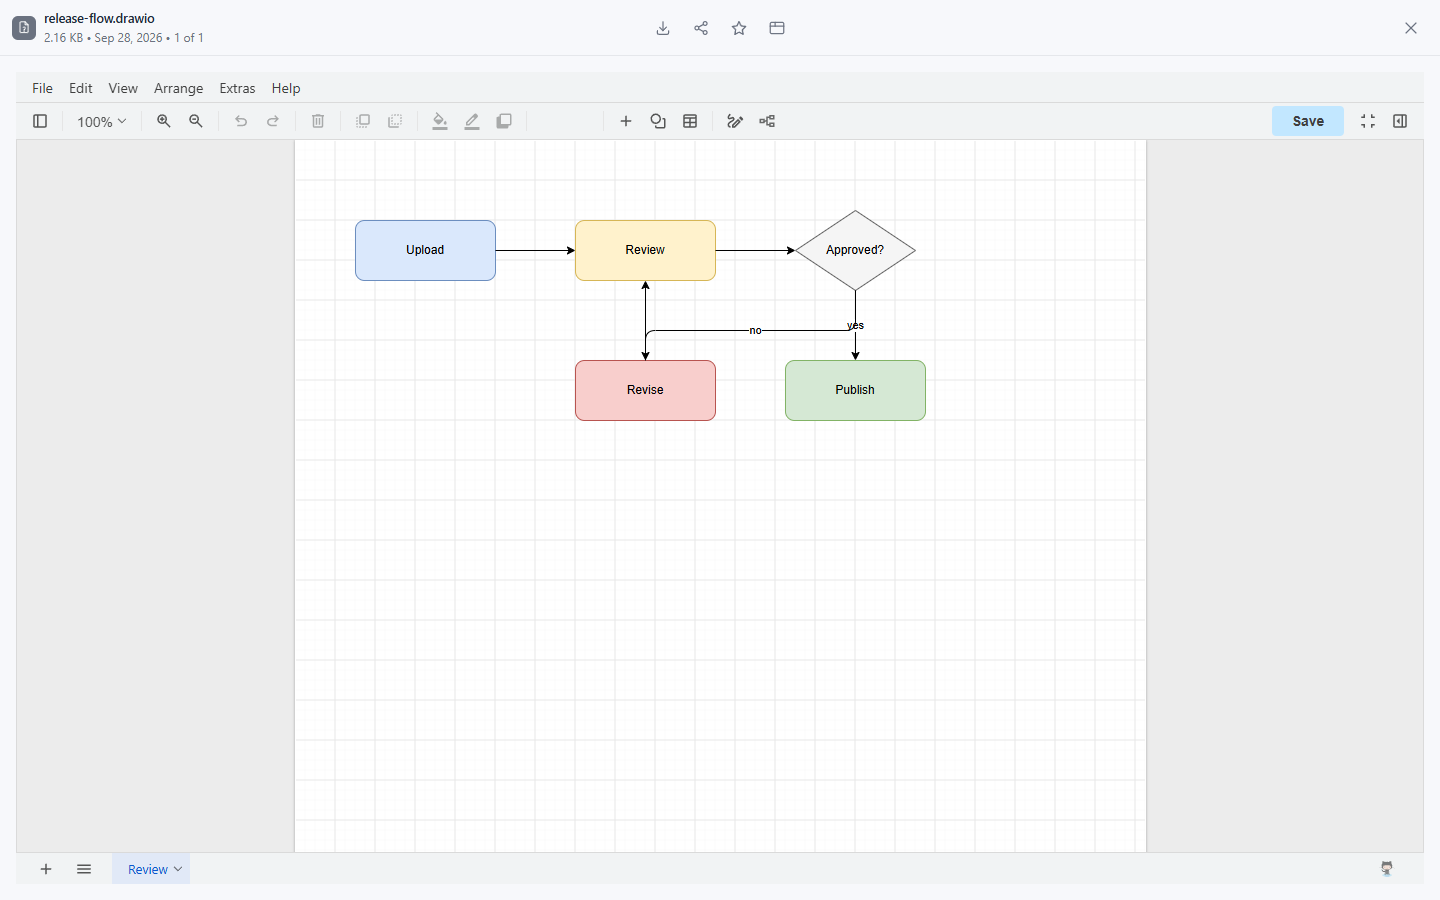
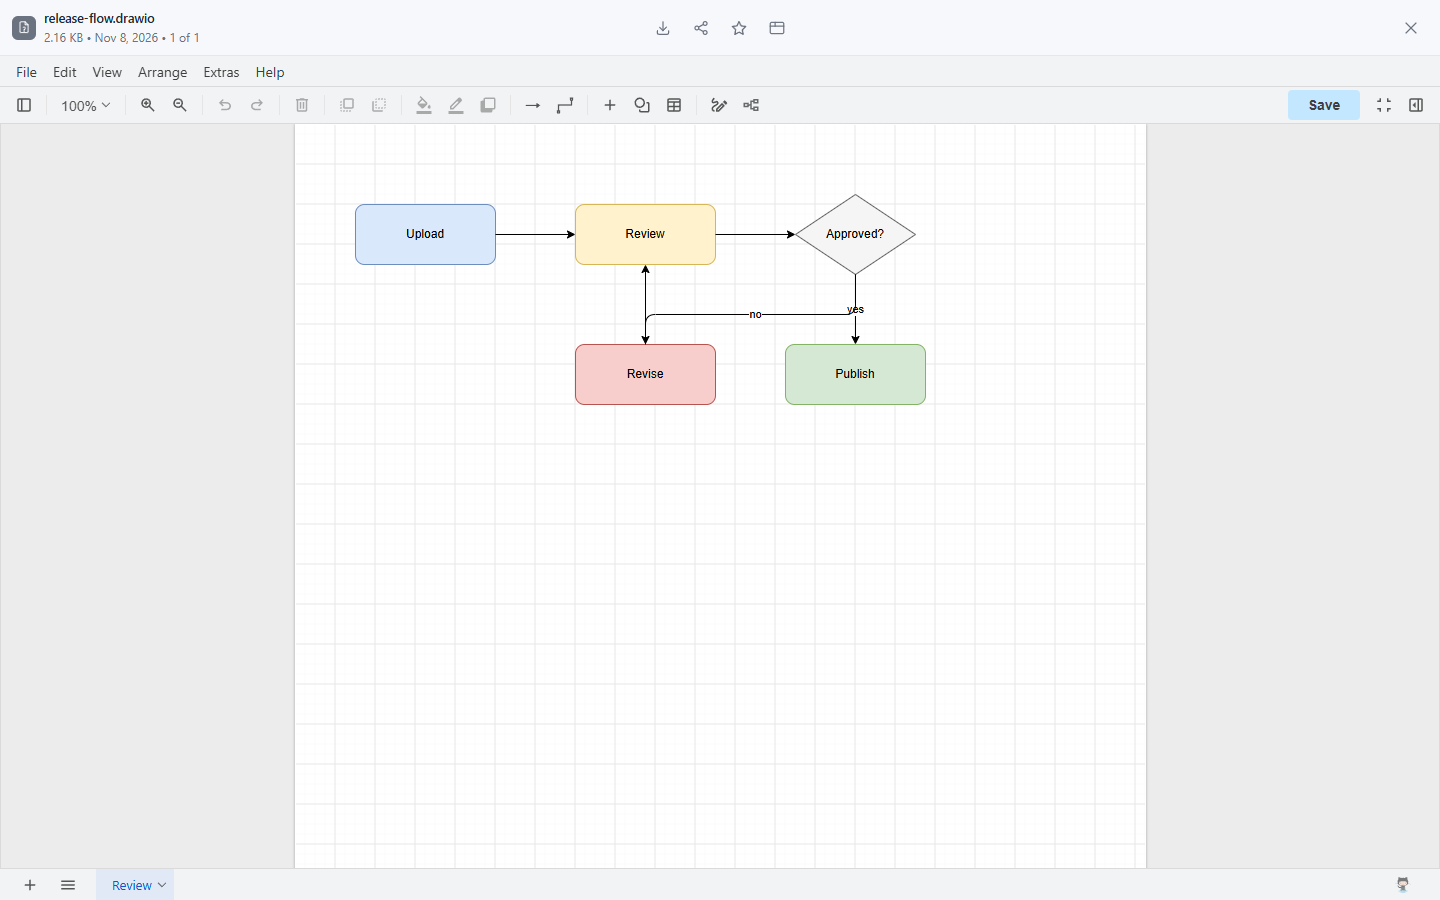
filex-drawio 32.6.10: draw.io 32.6.10
- draw.io 31.5.3 -> 32.6.10 (draw.war sha256
  a57b06b3b6a876a351dacfe65d027d9509319cd030e9bacf6ae04a034d66a38f). The
  adapter is unchanged; draw.io 32 ships fewer files: ui.zip 43.2 MiB,
  3067 files (was 47.2 MiB, 3384).
- The filex interface SDK is @brftech/filex-app-ui 0.59.0 as published
  (was 0.48.0's build). Additive only: filex 0.48.0 or later, as before.
- main's manifest is the released one again: main had carried a re-sealed
  bundle under v31.5.3's address, so an install from main failed with
  sha256_mismatch.
- Workflows pin every action by commit SHA: checkout v7.0.1,
  setup-python v7.1.0, cache v6.1.0, action-gh-release v3.0.4.
- measure/ uses playwright-core 1.65; README: version, package size, last
  measurement, and screenshots retaken on filex 0.59.0.

ui.zip sha256 82477313e3e4a9ff8568f50a05096d9f5029eb5e5154a2a14e2fe493348c824e,
the same on Windows and Linux. measure/drawio-measure.mjs green in Chrome,
Firefox and WebKit on filex 0.59.0 and 0.48.1; unit tests 4/4.

diff --git a/vendor/filex-app-ui.iife.js b/vendor/filex-app-ui.iife.js
@@ -1,2 +1,2 @@
-var FilexAppUI=function(o){"use strict";const S="filex:hello",O="filex:port",L=["session.get","file.read","file.save","file.saveAs","ui.dirty","ui.title","ui.toast","ui.confirm","ui.close","clipboard.write","ui.download","engine.call","job.submit","state.get","state.set"],h={maxTextBytes:33554432,maxStateBytes:8192,maxLineChars:300,connectTimeoutMs:1e4,maxDownloadBytes:268435456};function x(n){return!!n&&typeof n=="object"&&n.type===S&&typeof n.v=="number"}function R(n){return!!n&&typeof n=="object"&&n.type===O}function B(n){return!!n&&typeof n=="object"&&typeof n.id=="number"&&typeof n.method=="string"}function I(n){return L.includes(n)}class p extends Error{constructor(u){super(u.message||u.code),this.name="FilexError",this.code=u.code}}let E=null;function T(n={}){return E||(E=k(n)),E}function k(n){return new Promise((u,y)=>{if(typeof window>"u"||window.parent===window){y(new p({code:"unavailable",message:"not running inside filex"}));return}const a=window.parent,l=D(),c=setTimeout(()=>{window.removeEventListener("message",w),y(new p({code:"unavailable",message:"filex did not answer"}))},n.timeoutMs??h.connectTimeoutMs);function w(m){if(m.source!==a||!R(m.data)||!m.ports[0]||l&&m.origin!==l)return;window.removeEventListener("message",w),clearTimeout(c);const i=m.ports[0],f=H(i,n);f.request("session.get").then(g=>{f.session=g,n.applyTheme!==!1&&(M(g.theme,g.locale,g.dir),f.on("theme",d=>M(d)),f.on("locale",d=>{const e=d;M(void 0,e.locale,e.dir)})),u(f)}).catch(y)}window.addEventListener("message",w),a.postMessage({type:S,v:1},"*")})}function D(){try{const n=window.location.ancestorOrigins;if(n&&n.length>0&&n[0]!=="null")return n[0]}catch{}return""}function H(n,u){let y=0;const a=new Map,l=new Map;let c=null;n.onmessage=e=>{const t=e.data;if(!(!t||typeof t!="object")){if(typeof t.id=="number"){const s=a.get(t.id);if(!s)return;a.delete(t.id),t.error?s.reject(new p(t.error)):s.resolve(t.result);return}if(typeof t.hid=="number"){w(t);return}if(typeof t.event=="string")for(const s of l.get(t.event)??[])try{s(t.data)}catch(r){console.error("[filex-app-ui] listener failed",r)}}};async function w(e){if(e.request==="save"){if(!c){n.postMessage({hid:e.hid,error:{code:"unavailable",message:"this app has no save handler"}});return}try{const t=await m();n.postMessage({hid:e.hid,result:t??{saved:!0}})}catch(t){const s=t instanceof p?{code:t.code,message:t.message}:{code:"failed",message:String(t?.message??t)};n.postMessage({hid:e.hid,error:s})}return}n.postMessage({hid:e.hid,error:{code:"unknown_method"}})}async function m(){if(!c)return null;const e=await c();return e==null?null:d.save(e)}function i(e,t,s=[]){const r=++y;return new Promise((b,v)=>{a.set(r,{resolve:b,reject:v});try{n.postMessage({id:r,method:e,params:t},s)}catch(P){a.delete(r),v(P)}})}function f(e,t){i(e,t).catch(s=>console.warn("[filex-app-ui]",e,s))}async function g(e){if(typeof e=="string")return{data:e,transfer:[]};if(e instanceof ArrayBuffer)return{data:e,transfer:[e]};if(ArrayBuffer.isView(e)){const t=e.buffer.slice(e.byteOffset,e.byteOffset+e.byteLength);return{data:t,transfer:[t]}}if(typeof Blob<"u"&&e instanceof Blob){const t=await e.arrayBuffer();return{data:t,transfer:[t]}}if(typeof ReadableStream<"u"&&e instanceof ReadableStream)return{data:e,transfer:[e]};throw new p({code:"invalid",message:"save takes a string, a Blob, bytes or a ReadableStream"})}const d={session:void 0,async open(e=0){const t=d.session?.files?.[e];if(!t)throw new p({code:"not_found",message:`no file at ${e}`});const s=(r,b)=>i("file.read",{index:e,as:r}).then(v=>v[b]);return{...t,text:()=>s("text","text"),bytes:()=>s("bytes","bytes"),stream:()=>s("stream","stream"),save:(r,b)=>d.save(r,{index:e,mime:b})}},async save(e,t={}){const s=await g(e);return i("file.save",{index:t.index??0,data:s.data,mime:t.mime},s.transfer)},async saveAs(e,t,s){const r=await g(t);return i("file.saveAs",{name:e,data:r.data,mime:s},r.transfer)},async download(e,t,s){const r=await g(t);return i("ui.download",{name:e,data:r.data,mime:s},r.transfer)},dirty(e){f("ui.dirty",{dirty:!!e})},title(e){f("ui.title",{text:String(e).slice(0,h.maxLineChars)})},toast(e,t){f("ui.toast",{text:String(e).slice(0,h.maxLineChars),tone:t})},confirm(e){return i("ui.confirm",typeof e=="string"?{text:e}:e)},close(){f("ui.close")},copy(e){return i("clipboard.write",{text:String(e)})},call(e,t){return i("engine.call",{method:e,params:t})},submit(e,t){return i("job.submit",{action:e,params:t})},state:{get(e){return i("state.get",{key:e})},set(e,t){return i("state.set",{key:e,value:t})}},on(e,t){let s=l.get(e);return s||l.set(e,s=new Set),s.add(t),()=>s.delete(t)},onSave(e){return c=e,()=>{c===e&&(c=null)}},request:i};return u.saveShortcut!==!1&&typeof document<"u"&&document.addEventListener("keydown",e=>{(e.ctrlKey||e.metaKey)&&!e.altKey&&!e.shiftKey&&(e.key==="s"||e.key==="S")&&c&&(e.preventDefault(),m().catch(t=>d.toast(String(t?.message??t),"error")))},!0),d}function M(n,u,y){if(typeof document>"u")return;const a=document.documentElement;if(n){a.dataset.theme=n.mode,a.style.colorScheme=n.mode;for(const[l,c]of Object.entries(n.tokens??{}))/^--fe-[a-z0-9-]+$/.test(l)&&typeof c=="string"&&a.style.setProperty(l,c)}u&&(a.lang=u),y&&(a.dir=y)}return o.BRIDGE_VERSION=1,o.FilexError=p,o.HELLO=S,o.LIMITS=h,o.METHODS=L,o.PORT=O,o.connect=T,o.isHello=x,o.isKnownMethod=I,o.isPortMessage=R,o.isRequest=B,Object.defineProperty(o,Symbol.toStringTag,{value:"Module"}),o}({});
+var FilexAppUI=function(o){"use strict";const S="filex:hello",B="filex:port",O=["session.get","file.read","file.save","file.saveAs","ui.dirty","ui.title","ui.toast","ui.confirm","ui.close","clipboard.write","ui.download","engine.call","job.submit","state.get","state.set","license.get","ui.print","coedit.join","coedit.subscribe","coedit.append","coedit.lease","coedit.cursor","coedit.blob.put","coedit.blob.get","coedit.leave"],h={maxTextBytes:33554432,maxStateBytes:8192,maxLineChars:300,connectTimeoutMs:1e4,maxDownloadBytes:268435456,maxPrintBytes:67108864,maxEncryptedBytes:209715200};function R(n){return!!n&&typeof n=="object"&&n.type===S&&typeof n.v=="number"}function L(n){return!!n&&typeof n=="object"&&n.type===B}function x(n){return!!n&&typeof n=="object"&&typeof n.id=="number"&&typeof n.method=="string"}function I(n){return O.includes(n)}class p extends Error{constructor(f){super(f.message||f.code),this.name="FilexError",this.code=f.code}}let E=null;function T(n={}){return E||(E=j(n)),E}function j(n){return new Promise((f,m)=>{if(typeof window>"u"||window.parent===window){m(new p({code:"unavailable",message:"not running inside filex"}));return}const a=window.parent,d=P(),c=setTimeout(()=>{window.removeEventListener("message",b),m(new p({code:"unavailable",message:"filex did not answer"}))},n.timeoutMs??h.connectTimeoutMs);function b(g){if(g.source!==a||!L(g.data)||!g.ports[0]||d&&g.origin!==d)return;window.removeEventListener("message",b),clearTimeout(c);const r=g.ports[0],u=k(r,n);u.request("session.get").then(l=>{u.session=l,n.applyTheme!==!1&&(M(l.theme,l.locale,l.dir),u.on("theme",y=>M(y)),u.on("locale",y=>{const e=y;M(void 0,e.locale,e.dir)})),f(u)}).catch(m)}window.addEventListener("message",b),a.postMessage({type:S,v:1},"*")})}function P(){try{const n=window.location.ancestorOrigins;if(n&&n.length>0&&n[0]!=="null")return n[0]}catch{}return""}function k(n,f){let m=0;const a=new Map,d=new Map;let c=null;n.onmessage=e=>{const t=e.data;if(!(!t||typeof t!="object")){if(typeof t.id=="number"){const s=a.get(t.id);if(!s)return;a.delete(t.id),t.error?s.reject(new p(t.error)):s.resolve(t.result);return}if(typeof t.hid=="number"){b(t);return}if(typeof t.event=="string")for(const s of d.get(t.event)??[])try{s(t.data)}catch(i){console.error("[filex-app-ui] listener failed",i)}}};async function b(e){if(e.request==="save"){if(!c){n.postMessage({hid:e.hid,error:{code:"unavailable",message:"this app has no save handler"}});return}try{const t=await g();n.postMessage({hid:e.hid,result:t??{saved:!0}})}catch(t){const s=t instanceof p?{code:t.code,message:t.message}:{code:"failed",message:String(t?.message??t)};n.postMessage({hid:e.hid,error:s})}return}n.postMessage({hid:e.hid,error:{code:"unknown_method"}})}async function g(){if(!c)return null;const e=await c();return e==null?null:y.save(e)}function r(e,t,s=[]){const i=++m;return new Promise((w,v)=>{a.set(i,{resolve:w,reject:v});try{n.postMessage({id:i,method:e,params:t},s)}catch(D){a.delete(i),v(D)}})}function u(e,t){r(e,t).catch(s=>console.warn("[filex-app-ui]",e,s))}async function l(e){if(typeof e=="string")return{data:e,transfer:[]};if(e instanceof ArrayBuffer)return{data:e,transfer:[e]};if(ArrayBuffer.isView(e)){const t=e.buffer.slice(e.byteOffset,e.byteOffset+e.byteLength);return{data:t,transfer:[t]}}if(typeof Blob<"u"&&e instanceof Blob){const t=await e.arrayBuffer();return{data:t,transfer:[t]}}if(typeof ReadableStream<"u"&&e instanceof ReadableStream)return{data:e,transfer:[e]};throw new p({code:"invalid",message:"save takes a string, a Blob, bytes or a ReadableStream"})}const y={session:void 0,async open(e=0){const t=y.session?.files?.[e];if(!t)throw new p({code:"not_found",message:`no file at ${e}`});const s=(i,w)=>r("file.read",{index:e,as:i}).then(v=>v[w]);return{...t,text:()=>s("text","text"),bytes:()=>s("bytes","bytes"),stream:()=>s("stream","stream"),read:(i="bytes")=>r("file.read",{index:e,as:i}),save:(i,w)=>y.save(i,{index:e,mime:w})}},async save(e,t={}){const s=await l(e),i={index:t.index??0,data:s.data,mime:t.mime};return typeof t.through=="number"&&(i.through=t.through),t.csv&&(i.csv={...t.csv}),t.beside&&(i.beside=t.beside),t.conflict&&(i.conflict=t.conflict),r("file.save",i,s.transfer)},async saveAs(e,t,s){const i=await l(t);return r("file.saveAs",{name:e,data:i.data,mime:s},i.transfer)},async download(e,t,s){const i=await l(t);return r("ui.download",{name:e,data:i.data,mime:s},i.transfer)},async print(e,t){const s=await l(t);return r("ui.print",{name:e,data:s.data,mime:"application/pdf"},s.transfer)},coedit:{join(e=0){return r("coedit.join",{index:e})},subscribe(e){return r("coedit.subscribe",{from:e})},append(e,t){return r("coedit.append",{kind:e,body:t})},async lease(e,t){return!!(await r("coedit.lease",{op:e,changesSeen:t}))?.granted},cursor(e){u("coedit.cursor",{cursor:e})},async putBlob(e,t){const s=await l(t);if(!(s.data instanceof ArrayBuffer))throw new p({code:"invalid",message:"a blob is bytes"});await r("coedit.blob.put",{name:e,data:s.data},s.transfer)},async getBlob(e){return(await r("coedit.blob.get",{name:e})).bytes},async leave(){await r("coedit.leave")}},dirty(e){u("ui.dirty",{dirty:!!e})},title(e){u("ui.title",{text:String(e).slice(0,h.maxLineChars)})},toast(e,t){u("ui.toast",{text:String(e).slice(0,h.maxLineChars),tone:t})},confirm(e){return r("ui.confirm",typeof e=="string"?{text:e}:e)},close(){u("ui.close")},copy(e){return r("clipboard.write",{text:String(e)})},call(e,t){return r("engine.call",{method:e,params:t})},submit(e,t){return r("job.submit",{action:e,params:t})},state:{get(e){return r("state.get",{key:e})},set(e,t){return r("state.set",{key:e,value:t})}},license:{get(){return r("license.get")}},on(e,t){let s=d.get(e);return s||d.set(e,s=new Set),s.add(t),()=>s.delete(t)},onSave(e){return c=e,()=>{c===e&&(c=null)}},request:r};return f.saveShortcut!==!1&&typeof document<"u"&&document.addEventListener("keydown",e=>{(e.ctrlKey||e.metaKey)&&!e.altKey&&!e.shiftKey&&(e.key==="s"||e.key==="S")&&c&&(e.preventDefault(),g().catch(t=>y.toast(String(t?.message??t),"error")))},!0),y}function M(n,f,m){if(typeof document>"u")return;const a=document.documentElement;if(n){a.dataset.theme=n.mode,a.style.colorScheme=n.mode;for(const[d,c]of Object.entries(n.tokens??{}))/^--fe-[a-z0-9-]+$/.test(d)&&typeof c=="string"&&a.style.setProperty(d,c)}f&&(a.lang=f),m&&(a.dir=m)}return o.BRIDGE_VERSION=1,o.FilexError=p,o.HELLO=S,o.LIMITS=h,o.METHODS=O,o.PORT=B,o.connect=T,o.isHello=R,o.isKnownMethod=I,o.isPortMessage=L,o.isRequest=x,Object.defineProperty(o,Symbol.toStringTag,{value:"Module"}),o}({});
 //# sourceMappingURL=filex-app-ui.iife.js.map

diff --git a/README.md b/README.md
@@ -14,8 +14,8 @@ was opened with, through filex.
 
 | | |
 |---|---|
-| draw.io | **31.5.3** ([release](https://github.com/jgraph/drawio/releases/tag/v31.5.3), pinned by sha256 in [`drawio.lock.json`](drawio.lock.json)) |
-| Package (`ui.zip`) | **47.2 MiB** (49.5 MB) zipped, 150 MB unpacked, 3384 files |
+| draw.io | **32.6.10** ([release](https://github.com/jgraph/drawio/releases/tag/v32.6.10), pinned by sha256 in [`drawio.lock.json`](drawio.lock.json)) |
+| Package (`ui.zip`) | **43.2 MiB** (45.3 MB) zipped, 115 MB unpacked, 3067 files |
 | filex | **0.48.0** or later (`"filex": ">=0.48.0"`) |
 | License | this repository MIT; draw.io Apache 2.0 - see [NOTICE](NOTICE) |
 
@@ -23,7 +23,7 @@ was opened with, through filex.
 
 In filex's admin panel, **Plugins → Apps → Install an app → GitHub
 repository**. Enter the repository `BRF-Tech/filex-drawio` and, if you want a
-particular version, its tag as the ref (`v31.5.3`). filex reads [`filex-app.json`](filex-app.json), downloads
+particular version, its tag as the ref (`v32.6.10`). filex reads [`filex-app.json`](filex-app.json), downloads
 `ui.zip` from this repository's release, and checks it against the sha256
 the manifest pins. A bundle that does not match is refused.
 
@@ -107,7 +107,9 @@ cd measure && npm install && npx playwright-core install chromium firefox webkit
 node measure/drawio-measure.mjs <path to a filex binary> dist/ui.zip
 ```
 
-Last run: draw.io 31.5.3 on a filex 0.48.0 release-candidate build, in Chrome 153, Firefox 150 and WebKit 26.4.
+Last run (2026-11-08): draw.io 32.6.10 on filex 0.59.0 and on filex 0.48.1
+(the oldest filex the manifest allows), the same in both, in Chrome 156,
+Firefox 159 and WebKit 27.2.
 
 | | Chrome | Firefox | WebKit |
 |---|---|---|---|
@@ -116,10 +118,11 @@ Last run: draw.io 31.5.3 on a filex 0.48.0 release-candidate build, in Chrome 15
 | **New document → draw.io diagram**: a draft made from the template, open in draw.io | ✓ | ✓ | ✓ |
 | draw, **Save**, **Save to folder**: the diagram lands in the folder | ✓ | ✓ | ✓ |
 | content-policy violations | 0 | 0 | 0 |
+| failed requests | 0 | 0 | 0 |
 
-draw.io requests a resource named `null` from its package twice (Chrome
-blocks it, WebKit gets a 404). This comes from draw.io itself and has no
-effect.
+draw.io 31.5.3 requested a resource named `null` from its package twice
+(Chrome blocked it, WebKit got a 404). With 32.6.10 no request failed, and
+Chrome's and WebKit's consoles stayed empty.
 
 ## License
 

diff --git a/CHANGELOG.md b/CHANGELOG.md
@@ -1,10 +1,27 @@
 # Changelog
 
-## Unreleased
+## 32.6.10 - 2026-11-08
 
+- draw.io 32.6.10 (was 31.5.3), draw.io's latest release. The adapter is
+  unchanged and works with it as it did with 31: open, draw, **Save** and
+  **New document → draw.io diagram** were checked in Chrome, Firefox and
+  WebKit on filex 0.59.0 and 0.48.1. draw.io 32 ships fewer files (the
+  stencils come only in `js/stencils.min.js`, MathJax in one file, and the
+  Dropbox, GitHub and GitLab pages are gone): `ui.zip` is 43.2 MiB with
+  3067 files (was 47.2 MiB with 3384).
+- The filex interface SDK of filex 0.59.0 (`@brftech/filex-app-ui`, was
+  0.48.0). It only adds methods the adapter does not call; the app still
+  needs filex 0.48.0 or later.
+- Installing from `main` works again: `main` had carried a re-sealed bundle
+  under 31.5.3's address, so filex refused it with `sha256_mismatch`. The
+  manifest on `main` is again the released one.
 - A release's notes on GitHub are its `CHANGELOG.md` section, so filex's
   "Review update" says what the version changes (it showed only GitHub's
   "Full Changelog" line). A version with no section is not released.
+- The workflows pin every action by commit SHA, with its version beside
+  it: `actions/checkout` v7.0.1, `actions/setup-python` v7.1.0,
+  `actions/cache` v6.1.0, `softprops/action-gh-release` v3.0.4. The
+  browser measurement uses `playwright-core` 1.65.
 
 ## 31.5.3 - first release
 

diff --git a/vendor/README.md b/vendor/README.md
@@ -1,8 +1,9 @@
 # vendor/
 
 `filex-app-ui.iife.js` - the filex interface SDK, `@brftech/filex-app-ui`,
-the IIFE build (`window.FilexAppUI`) from filex 0.48.0 (`packages/app-ui`,
-`pnpm --filter @brftech/filex-app-ui build`). MIT, BRF Tech.
+the IIFE build (`window.FilexAppUI`) of filex 0.59.0: `dist/filex-app-ui.iife.js`
+of the npm package `@brftech/filex-app-ui@0.59.0`, as published (filex's
+`packages/app-ui`, `pnpm --filter @brftech/filex-app-ui build`). MIT, BRF Tech.
 
 It is vendored, not downloaded at build time, so a build is reproducible:
 the bundle's sha256 is pinned in `filex-app.json`, and a different SDK file
